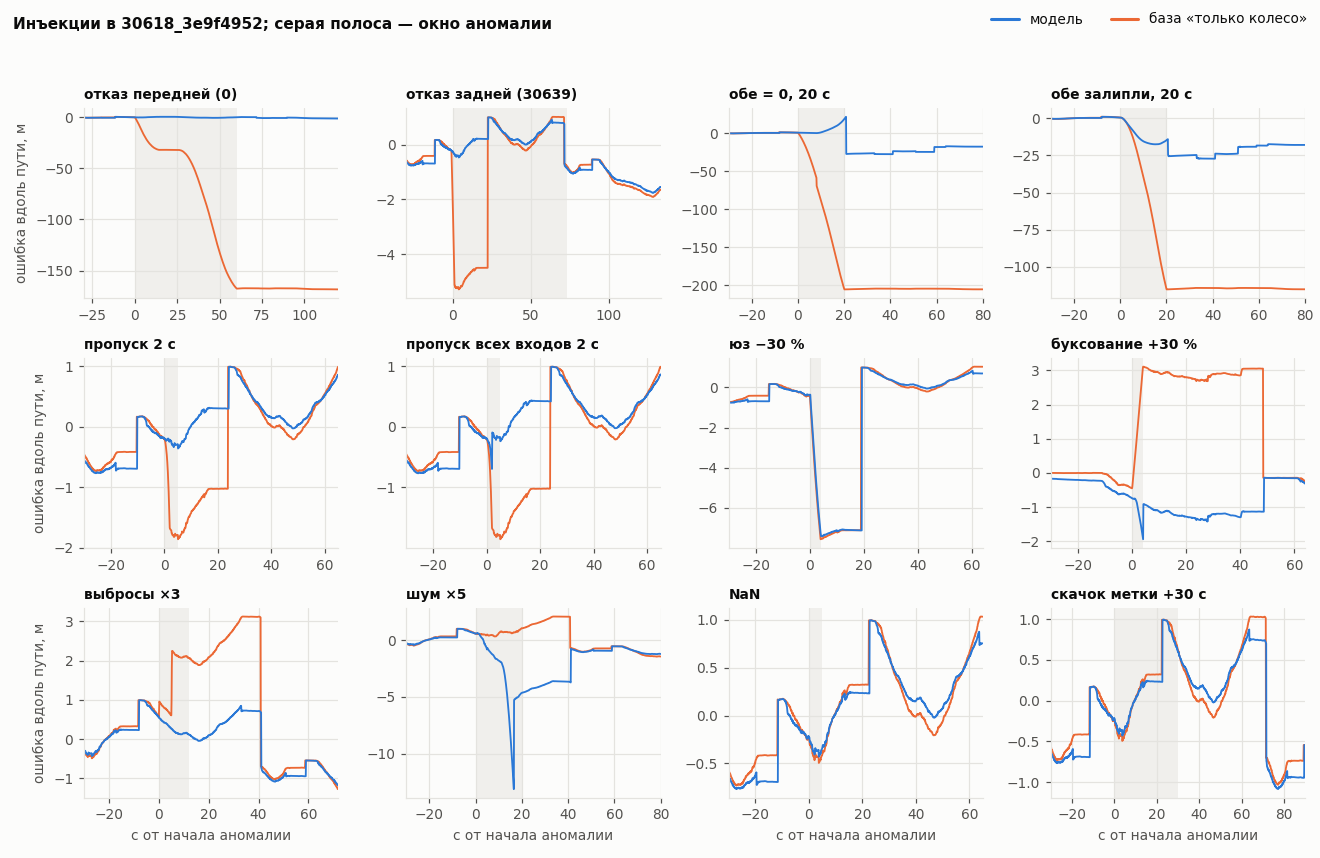
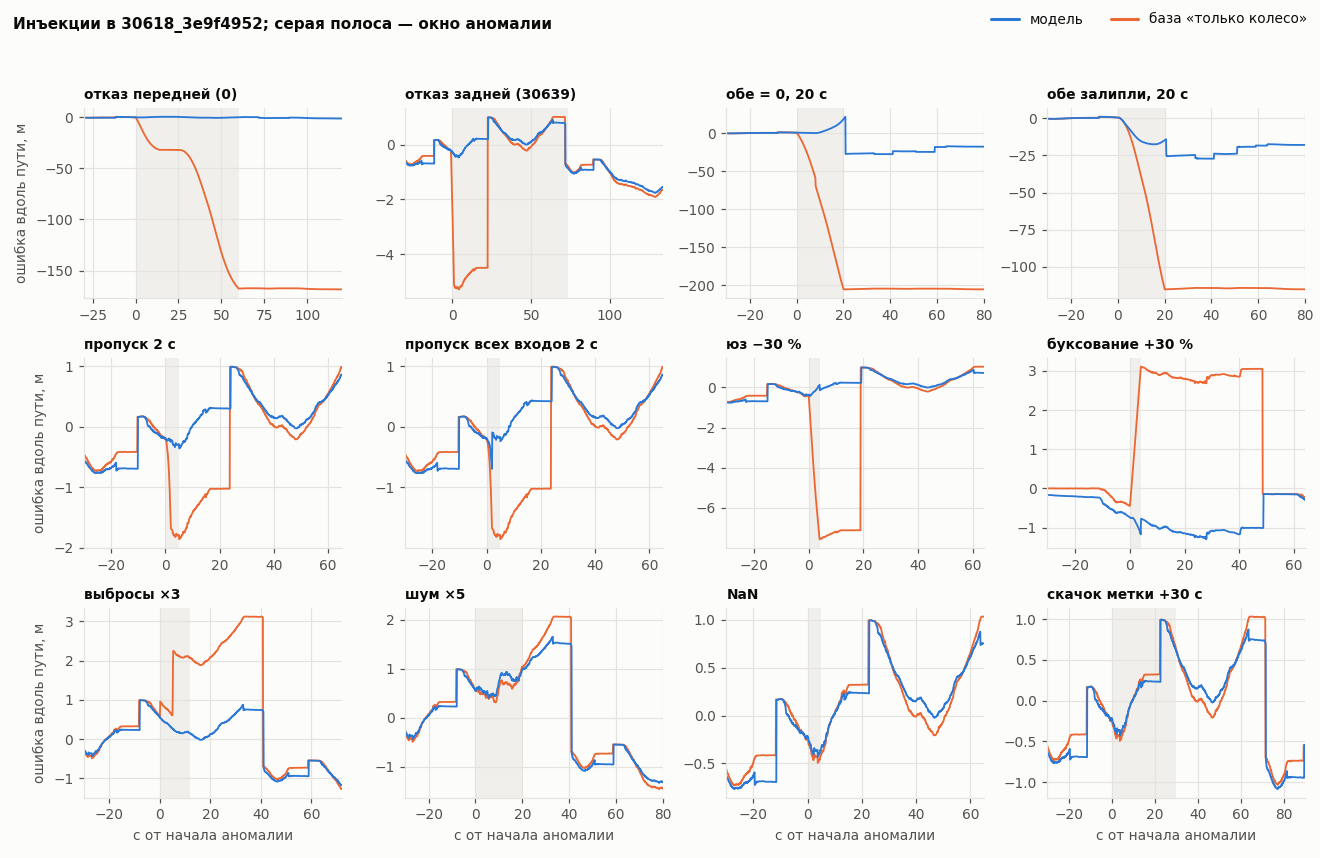
Документы: описание обработки срыва колёс, пересобран EVAL.md
- результаты до/после, подбор на обучающих записях, перенос в JS-порт
- EVAL.md пересобран tools/eval.py с --variants

diff --git a/docs/EVAL.md b/docs/EVAL.md
@@ -1,6 +1,6 @@
 # Оценка точности и устойчивости (tools/eval.py)
 
-> **Версия чисел: после слияний (integration).** Документ целиком сгенерирован `tools/eval.py` (не править руками). Код пакета: sha `0f87c0a568136e4f`. Лист: оценочный (ros2_ws/src/tram_state_estimator/config/eval/tram.yaml, только train) (sha `77db84496ad53a34`). Карта: оценочная карта пакета config/eval/track_map.npz (только train, meas_scale 1.001287) (sha `0478c0497ecee761`). GNSS в связку: первые 3 с. Прогонов: 15.
+> **Версия чисел: срыв обеих тележек и шум (wp2/slip).** Документ целиком сгенерирован `tools/eval.py` (не править руками). Код пакета: sha `f82531fffd2b8d98`. Лист: оценочный (ros2_ws/src/tram_state_estimator/config/eval/tram.yaml, только train) (sha `9268ab52be7d1f38`). Карта: оценочная карта пакета config/eval/track_map.npz (только train, meas_scale 1.001287) (sha `0478c0497ecee761`). GNSS в связку: первые 3 с. Прогонов: 15.
 
 ## Главное
 
@@ -9,50 +9,50 @@
 * **Полнота выхода** (модель): пар скорости 99,99 % меток GNSS vel (NaN в выходе: 0), пар положения 99,48 % меток GNSS fix (строк выхода без опубликованного положения: 2037, положение NaN: 0); падений связки: 0.
 * **Граница квадратов MGRS** (E = 400 км, запад в 37U CB): средняя 3D модели при сочетании «наш выход × соглашение судьи» — перенос × перенос 3,79 м, 37UDB × 37UDB 3,79 м, **перенос × 37UDB 21462 м, 37UDB × перенос 21462 м** (пар с ошибкой > 1 км: 36659 и 36659 из 170661). Несовпадение соглашений стоит ~100 км всей западной части пути; при совпадении добавляются только пары у самой границы, где оценка и эталон по разные стороны (перенос × перенос: 0; раздел 3.2).
 * **GNSS весь прогон:** выход совпал с режимом «GNSS 3 с» в 5 из 5 прогонов; 3D ср. 2,2 м против 2,2 м (первые 5 мин).
-* **Инъекции:** both_zero — флаг есть; модель лучше базы; остаток 44 м; both_stuck — флаг есть; модель лучше базы; остаток 41 м; skid_brake — не замечено: ошибка без флага; noise — флаг есть; модель хуже базы.
+* **Инъекции:** both_zero — флаг есть; модель лучше базы; остаток 38 м; both_stuck — флаг есть; модель лучше базы; остаток 41 м.
 
 ## 0. До и после
 
-«До» — `docs/data/eval_before/summary.json`: до правок, код пакета sha `5f634e9a5a63564d`, лист json (запасной: оценочного листа config/eval/ нет), карта оценочная: только обучающие прогоны (build_map.py train, ключ b16c47d5); **УТЕЧКА: таблица привода и масштаб подогнаны по всем 122 bag, включая отложенные; q_v, delay, tau подбирались на отложенных**. «После» — этот прогон (шапка документа). Прогоны те же.
+«До» — `out/eval_before15/summary.json`: до: main 1b5922c, код пакета sha `0f87c0a568136e4f`, лист оценочный (ros2_ws/src/tram_state_estimator/config/eval/tram.yaml, только train), карта оценочная карта пакета config/eval/track_map.npz (только train, meas_scale 1.001287). «После» — этот прогон (шапка документа). Прогоны те же.
 
 | метрика (15 holdout_scored) | модель до | модель после | база до | база после |
 |---|---|---|---|---|
-| скорость MAE, м/с | 0,0489 | 0,0362 | 0,0483 | 0,0462 |
-| скорость RMSE, м/с | 0,0997 | 0,0918 | 0,0967 | 0,0947 |
-| скорость смещение, м/с | +0,0130 | +0,0037 | +0,0066 | +0,0064 |
-| скорость макс \|ошибка\|, м/с | 9,468 | 9,488 | 9,436 | 9,435 |
-| ±2σ скорости | 75,6 % | 94,7 % | — | — |
-| — стоянка: MAE | 0,0166 | 0,0156 | 0,0148 | 0,0146 |
-| — стоянка: смещение | −0,0114 | −0,0127 | −0,0089 | −0,0090 |
-| — стоянка: ±2σ | 81,8 % | 95,8 % | — | — |
-| — тяга: MAE | 0,0567 | 0,0467 | 0,0576 | 0,0550 |
-| — тяга: смещение | −0,0022 | +0,0129 | −0,0225 | −0,0197 |
-| — тяга: ±2σ | 81,5 % | 93,7 % | — | — |
-| — выбег: MAE | 0,0466 | 0,0374 | 0,0397 | 0,0386 |
-| — выбег: смещение | +0,0318 | +0,0170 | +0,0179 | +0,0168 |
-| — выбег: ±2σ | 77,3 % | 93,5 % | — | — |
-| — торможение: MAE | 0,0720 | 0,0437 | 0,0726 | 0,0691 |
-| — торможение: смещение | +0,0478 | +0,0049 | +0,0508 | +0,0475 |
-| — торможение: ±2σ | 62,3 % | 95,1 % | — | — |
-| положение ср. 3D, м | 5,04 | 3,79 | 3,94 | 3,81 |
-| положение 3D RMSE, м | 11,51 | 9,20 | 9,68 | 9,34 |
-| положение 3D макс, м | 131,3 | 82,1 | 130,8 | 82,1 |
-| конец 3D ср., м | 21,1 | 12,2 | 18,0 | 12,0 |
-| конец 3D медиана, м | 1,80 | 2,39 | 1,69 | 1,69 |
-| конец 3D макс, м | 131,3 | 55,3 | 130,8 | 55,3 |
-| дрейф 3D по концу, % медиана | 0,060 | 0,045 | 0,031 | 0,031 |
-| дрейф 3D по концу, % ср. | 0,399 | 0,231 | 0,338 | 0,227 |
-| дрейф 3D по концу, % макс | 2,295 | 0,978 | 2,286 | 0,979 |
-| вдоль пути ср. \|ошибка\|, м | 4,19 | 2,91 | 2,93 | 2,92 |
-| вдоль пути RMSE, м | 10,92 | 8,72 | 8,48 | 8,88 |
-| вдоль пути макс, м | 129,1 | 141,7 | 66,5 | 141,7 |
-| поперёк ср., м | 0,56 | 0,52 | 0,55 | 0,52 |
-| поперёк макс, м | 59,9 | 43,3 | 59,8 | 43,2 |
-| \|вдоль\| ≤ 2σ_s | 60,1 % | 93,1 % | — | — |
-| пар в чужом 100-км квадрате (перенос) | 22 | 0 | 21 | 0 |
-| «взгляд судьи»: сырые x, y, z против MGRS, ср. 3D, м | 95819,2 | 3,8 | 95819,7 | 3,8 |
+| скорость MAE, м/с | 0,0362 | 0,0362 | 0,0462 | 0,0462 |
+| скорость RMSE, м/с | 0,0918 | 0,0917 | 0,0947 | 0,0947 |
+| скорость смещение, м/с | +0,0037 | +0,0037 | +0,0064 | +0,0064 |
+| скорость макс \|ошибка\|, м/с | 9,488 | 9,489 | 9,435 | 9,435 |
+| ±2σ скорости | 94,7 % | 94,7 % | — | — |
+| — стоянка: MAE | 0,0156 | 0,0156 | 0,0146 | 0,0146 |
+| — стоянка: смещение | −0,0127 | −0,0127 | −0,0090 | −0,0090 |
+| — стоянка: ±2σ | 95,8 % | 95,8 % | — | — |
+| — тяга: MAE | 0,0467 | 0,0467 | 0,0550 | 0,0550 |
+| — тяга: смещение | +0,0129 | +0,0129 | −0,0197 | −0,0197 |
+| — тяга: ±2σ | 93,7 % | 93,7 % | — | — |
+| — выбег: MAE | 0,0374 | 0,0374 | 0,0386 | 0,0386 |
+| — выбег: смещение | +0,0170 | +0,0171 | +0,0168 | +0,0168 |
+| — выбег: ±2σ | 93,5 % | 93,5 % | — | — |
+| — торможение: MAE | 0,0437 | 0,0436 | 0,0691 | 0,0691 |
+| — торможение: смещение | +0,0049 | +0,0049 | +0,0475 | +0,0475 |
+| — торможение: ±2σ | 95,1 % | 95,1 % | — | — |
+| положение ср. 3D, м | 3,79 | 3,79 | 3,81 | 3,81 |
+| положение 3D RMSE, м | 9,20 | 9,20 | 9,34 | 9,34 |
+| положение 3D макс, м | 82,1 | 82,1 | 82,1 | 82,1 |
+| конец 3D ср., м | 12,2 | 12,2 | 12,0 | 12,0 |
+| конец 3D медиана, м | 2,39 | 2,39 | 1,69 | 1,69 |
+| конец 3D макс, м | 55,3 | 55,3 | 55,3 | 55,3 |
+| дрейф 3D по концу, % медиана | 0,045 | 0,045 | 0,031 | 0,031 |
+| дрейф 3D по концу, % ср. | 0,231 | 0,231 | 0,227 | 0,227 |
+| дрейф 3D по концу, % макс | 0,978 | 0,978 | 0,979 | 0,979 |
+| вдоль пути ср. \|ошибка\|, м | 2,91 | 2,91 | 2,92 | 2,92 |
+| вдоль пути RMSE, м | 8,72 | 8,72 | 8,88 | 8,88 |
+| вдоль пути макс, м | 141,7 | 141,7 | 141,7 | 141,7 |
+| поперёк ср., м | 0,52 | 0,52 | 0,52 | 0,52 |
+| поперёк макс, м | 43,3 | 43,3 | 43,2 | 43,2 |
+| \|вдоль\| ≤ 2σ_s | 93,1 % | 93,1 % | — | — |
+| пар в чужом 100-км квадрате (перенос) | 0 | 0 | 0 | 0 |
+| «взгляд судьи»: сырые x, y, z против MGRS, ср. 3D, м | 3,8 | 3,8 | 3,8 | 3,8 |
 
-GNSS весь прогон (первые 5 мин): выход совпал с «GNSS 3 с» до — 0 из 5, после — 5 из 5.
+GNSS весь прогон (первые 5 мин): выход совпал с «GNSS 3 с» до — — из 0, после — 5 из 5.
 
 База «только колесо» — тот же Runner (выставка, карта, привязки) со средним свежих показаний тележек вместо ядра; «до» и «после» у неё различаются только кодом связки и картой.
 
@@ -92,8 +92,8 @@ docker run --rm --cpus 2 -v ${PWD}:/repo -v <каталог с bag>:/repo/data:r
 
 Результаты: `out/eval/summary.json` (итоги), `runs.json` (по прогонам), `inject.json` (инъекции), `timing.json` (время, sha256 JSON, git, строки реального времени; не детерминирован). Тесты инструментов: `python3 -m pytest tools/eval_selftest.py -q`.
 
-Этот прогон: 9,1 мин без графиков и документа (они ~0,5 мин), процессов 2, с --variants (время зависит от загрузки машины: 26.09 при соседних контейнерах, где наш получал ~1,3 ядра, тот же прогон без --variants шёл 18,0 мин вместо 6,4).
-sha256 JSON этого прогона: `summary.json` 58d294576771, `runs.json` dd33623b517e, `inject.json` b093e845d65f.
+Этот прогон: 11,1 мин без графиков и документа (они ~0,5 мин), процессов 4, с --variants (время зависит от загрузки машины: 26.09 при соседних контейнерах, где наш получал ~1,3 ядра, тот же прогон без --variants шёл 18,0 мин вместо 6,4).
+sha256 JSON этого прогона: `summary.json` 18b9b6e0b0a9, `runs.json` 1c295d3e457c, `inject.json` ce643c4004a9.
 Воспроизводимость: два полных прогона дают побайтно одинаковые `summary.json`, `runs.json`, `inject.json` (`--check-determinism` проверяет это сам); чистый `git clone` с пустым кэшем строит кэш и карту из `data/` и даёт тот же sha256 `runs.json` (проверено 25.09 на коде до правок). Карта напарника `analysis/cache/track_map_train.npz` (собрана на Windows) отличается от пересобранной множителем пути в 16-м знаке, поэтому не используется.
 
 ## 2. Методика
@@ -117,7 +117,7 @@ sha256 JSON этого прогона: `summary.json` 58d294576771, `runs.json` 
 
 | оценка | RMSE, м/с | MAE, м/с | смещение, м/с | макс, м/с | ±2σ | ложные стоянки | пар | доля пар | NaN в выходе |
 |---|---|---|---|---|---|---|---|---|---|
-| модель | 0,0918 | 0,0362 | +0,0037 | 9,49 | 94,7 % | 0,021 % | 167303 | 99,99 % | 0 |
+| модель | 0,0917 | 0,0362 | +0,0037 | 9,49 | 94,7 % | 0,021 % | 167303 | 99,99 % | 0 |
 | база «только колесо» | 0,0947 | 0,0462 | +0,0064 | 9,44 | — | 0,036 % | 167303 | 99,99 % | 0 |
 
 Доля пар — от меток GNSS master vel; непарные — метки без выхода в пределах 0,05 с (до первого выхода, пропуски, падение). Падения связки на чистых прогонах: нет.
@@ -126,7 +126,7 @@ sha256 JSON этого прогона: `summary.json` 58d294576771, `runs.json` 
 
 | оценка | RMSE, м/с | MAE, м/с | смещение, м/с |
 |---|---|---|---|
-| модель | 0,2706 | 0,0412 | −0,0002 |
+| модель | 0,2706 | 0,0411 | −0,0002 |
 | база | 0,2725 | 0,0509 | +0,0024 |
 
 По фазам (пулом всех пар master):
@@ -135,10 +135,10 @@ sha256 JSON этого прогона: `summary.json` 58d294576771, `runs.json` 
 |---|---|---|---|---|---|---|
 | стоянка | 28 % | 0,0156 | −0,0127 | 95,8 % | 0,0146 | −0,0090 |
 | тяга | 33 % | 0,0467 | +0,0129 | 93,7 % | 0,0550 | −0,0197 |
-| выбег | 9 % | 0,0374 | +0,0170 | 93,5 % | 0,0386 | +0,0168 |
-| торможение | 29 % | 0,0437 | +0,0049 | 95,1 % | 0,0691 | +0,0475 |
+| выбег | 9 % | 0,0374 | +0,0171 | 93,5 % | 0,0386 | +0,0168 |
+| торможение | 29 % | 0,0436 | +0,0049 | 95,1 % | 0,0691 | +0,0475 |
 
-Без выбросов самого эталона (GNSS против обеих согласных тележек > 1 м/с, 169 пар): модель MAE 0,0350, RMSE 0,0762; база MAE 0,0451, RMSE 0,0803.
+Без выбросов самого эталона (GNSS против обеих согласных тележек > 1 м/с, 169 пар): модель MAE 0,0349, RMSE 0,0761; база MAE 0,0451, RMSE 0,0803.
 
 ![Ошибка скорости](img/eval_speed_error.png)
 
@@ -194,12 +194,12 @@ sha256 JSON этого прогона: `summary.json` 58d294576771, `runs.json` 
 
 | прогон | путь, км | пар v | MAE | MAE база | смещение | ±2σ | 3D ср. | 3D база | 3D конец | вдоль конец | дрейф 3D, % | квадрат ≠ | падение |
 |---|---|---|---|---|---|---|---|---|---|---|---|---|---|
-| 30618_0652866c | 5,72 | 14320 | 0,0266 | 0,0367 | −0,0069 | 97 % | 3,19 | 3,12 | 41,98 | +37,6 | 0,734 | 0 |  |
+| 30618_0652866c | 5,72 | 14320 | 0,0266 | 0,0367 | −0,0070 | 97 % | 3,19 | 3,12 | 41,98 | +37,6 | 0,734 | 0 |  |
 | 30618_21dd3af3 | 5,43 | 10544 | 0,0277 | 0,0342 | −0,0071 | 95 % | 1,85 | 2,13 | 0,36 | −0,3 | 0,007 | 0 |  |
-| 30618_28538acf | 5,63 | 12616 | 0,0455 | 0,0578 | −0,0093 | 95 % | 3,28 | 3,25 | 2,39 | −2,4 | 0,042 | 0 |  |
-| 30618_3e9f4952 | 5,52 | 12948 | 0,0209 | 0,0317 | −0,0035 | 98 % | 1,14 | 1,21 | 0,44 | −0,4 | 0,008 | 0 |  |
+| 30618_28538acf | 5,63 | 12616 | 0,0452 | 0,0578 | −0,0092 | 95 % | 3,28 | 3,25 | 2,39 | −2,4 | 0,042 | 0 |  |
+| 30618_3e9f4952 | 5,52 | 12948 | 0,0209 | 0,0317 | −0,0035 | 98 % | 1,14 | 1,21 | 0,45 | −0,4 | 0,008 | 0 |  |
 | 30618_49fe4c54 | 5,69 | 13406 | 0,0288 | 0,0401 | −0,0052 | 96 % | 2,69 | 2,62 | 55,26 | −46,7 | 0,971 | 0 |  |
-| 30618_616ec56b | 5,69 | 11909 | 0,0236 | 0,0369 | −0,0040 | 98 % | 3,07 | 2,99 | 1,71 | −1,7 | 0,030 | 0 |  |
+| 30618_616ec56b | 5,69 | 11909 | 0,0236 | 0,0369 | −0,0040 | 98 % | 3,07 | 2,99 | 1,72 | −1,7 | 0,030 | 0 |  |
 | 30618_8158f0b0 | 5,52 | 11634 | 0,0233 | 0,0358 | −0,0044 | 98 % | 1,93 | 1,95 | 54,03 | −44,6 | 0,978 | 0 |  |
 | 30618_98161270 | 0,00 | 362 | 0,0035 | 0,0035 | −0,0035 | 100 % | 0,04 | 0,02 | 0,07 | — | — | 0 |  |
 | 30618_a53d5f6f | 5,53 | 11810 | 0,0234 | 0,0338 | −0,0043 | 97 % | 0,88 | 0,79 | 0,72 | −0,7 | 0,013 | 0 |  |
@@ -207,7 +207,7 @@ sha256 JSON этого прогона: `summary.json` 58d294576771, `runs.json` 
 | 30618_d4ba7005 | 5,35 | 11568 | 0,0208 | 0,0329 | −0,0030 | 98 % | 0,64 | 0,76 | 2,58 | −2,6 | 0,048 | 0 |  |
 | 30618_e9a34502 | 5,39 | 11901 | 0,0200 | 0,0286 | −0,0037 | 98 % | 0,77 | 0,85 | 1,69 | −1,7 | 0,031 | 0 |  |
 | 30639_3b3d9eb8 | 5,47 | 12149 | 0,1230 | 0,1270 | +0,0421 | 74 % | 7,75 | 7,60 | 6,73 | −4,6 | 0,123 | 0 |  |
-| 30639_92226df0 | 5,54 | 10723 | 0,0578 | 0,0627 | +0,0425 | 86 % | 4,11 | 3,97 | 1,44 | −1,3 | 0,026 | 0 |  |
+| 30639_92226df0 | 5,54 | 10723 | 0,0578 | 0,0627 | +0,0426 | 86 % | 4,11 | 3,97 | 1,44 | −1,3 | 0,026 | 0 |  |
 | 30639_d3c43d69 | 6,85 | 10782 | 0,0418 | 0,0544 | +0,0230 | 96 % | 21,75 | 22,15 | 8,97 | +6,0 | 0,131 | 0 |  |
 
 ## 4. Заглушки крипа против подогнанных / нулевых
@@ -215,7 +215,7 @@ sha256 JSON этого прогона: `summary.json` 58d294576771, `runs.json` 
 | вариант | поля | MAE, м/с | смещение | ±2σ | 3D ср., м |
 |---|---|---|---|---|---|
 | лист как есть | c_creep 0,0000, c_creep_drag 0,0000 | 0,0362 | +0,0037 | 94,7 % | 3,79 |
-| stubs | c_creep=0.02,c_creep_drag=0.002 | 0,0404 | +0,0125 | 93,5 % | 3,93 |
+| stubs | c_creep=0.02,c_creep_drag=0.002 | 0,0403 | +0,0125 | 93,5 % | 3,93 |
 | zero | c_creep=0,c_creep_drag=0 | = лист |  |  |  |
 
 ## 5. GNSS весь прогон (bag жюри с полным GNSS)
@@ -262,14 +262,14 @@ sha256 JSON этого прогона: `summary.json` 58d294576771, `runs.json` 
 |---|---|---|---|---|---|---|---|---|
 | front_zero | 3 | 0,028 | 2,379 | 1,5 | 179,7 | 100 % / 0 % / 0 % | 98 % | модель лучше базы |
 | rear_drop | 3 | 0,026 | 0,079 | 0,3 | 0,3 | 100 % / 0 % / 0 % | 97 % | модель лучше базы |
-| both_zero | 3 | 1,001 | 9,328 | 43,9 | 205,8 | 0 % / 100 % / 34 % | 100 % | флаг есть; модель лучше базы; остаток 44 м |
+| both_zero | 3 | 1,001 | 9,328 | 37,8 | 205,8 | 0 % / 100 % / 15 % | 100 % | флаг есть; модель лучше базы; остаток 38 м |
 | both_stuck | 3 | 1,124 | 5,357 | 41,2 | 115,2 | 11 % / 0 % / 0 % | 83 % | флаг есть; модель лучше базы; остаток 41 м |
 | dropout | 3 | 0,069 | 0,361 | 0,1 | 0,1 | 78 % / 0 % / 0 % | 100 % | флаг есть; модель лучше базы |
 | gap_all | 3 | 0,121 | 0,361 | 0,1 | 0,1 | 78 % / 0 % / 0 % | 100 % | флаг есть; модель лучше базы |
-| skid_brake | 3 | 1,756 | 1,772 | 0,0 | 0,0 | 100 % / 0 % / 0 % | 5 % | не замечено: ошибка без флага |
-| spin_traction | 3 | 0,635 | 0,861 | 0,3 | 0,2 | 25 % / 0 % / 98 % | 42 % | флаг есть |
-| outliers | 3 | 0,031 | 0,213 | 0,0 | 0,2 | 100 % / 0 % / 9 % | 100 % | флаг есть; модель лучше базы |
-| noise | 3 | 0,587 | 0,146 | 2,1 | 0,2 | 80 % / 0 % / 74 % | 42 % | флаг есть; модель хуже базы |
+| skid_brake | 3 | 0,182 | 1,772 | 0,1 | 0,0 | 24 % / 0 % / 99 % | 100 % | флаг есть; модель лучше базы |
+| spin_traction | 3 | 0,211 | 0,861 | 0,3 | 0,2 | 24 % / 0 % / 99 % | 99 % | флаг есть; модель лучше базы |
+| outliers | 3 | 0,034 | 0,213 | 0,1 | 0,2 | 100 % / 0 % / 2 % | 100 % | модель лучше базы |
+| noise | 3 | 0,100 | 0,146 | 0,4 | 0,2 | 100 % / 0 % / 2 % | 94 % | в пределах нормы |
 | nan | 3 | 0,031 | 0,034 | 0,1 | 0,0 | 100 % / 0 % / 0 % | 100 % | в пределах нормы |
 | stamp_jump | 3 | 0,025 | 0,038 | 0,1 | 0,1 | 100 % / 0 % / 0 % | 96 % | в пределах нормы |
 
@@ -281,7 +281,7 @@ sha256 JSON этого прогона: `summary.json` 58d294576771, `runs.json` 
 |  | база | 0,031 | 2,781 | 0,027 | −167,4 (+0,7) | −168,4 | −179,7 | 0,1 |  |  |
 | rear_drop · 3e9f4952 | модель | 0,032 | 0,024 | 0,018 | −0,9 (−0,9) | −1,5 | −0,1 | 0,0 | valid 100 %, amb 0 %, slip 0 %, σv≤0,2 | 97 % |
 |  | база | 0,100 | 0,070 | 0,025 | −0,8 (−0,8) | −1,6 | −0,0 | 0,0 |  |  |
-| both_zero · 3e9f4952 | модель | 0,024 | 0,943 | 0,082 | +18,0 (+0,1) | −17,8 | −13,5 | 0,9 | valid 0 %, amb 100 %, slip 17 %, σv≤9,6 | 100 % |
+| both_zero · 3e9f4952 | модель | 0,024 | 0,943 | 0,082 | +18,0 (+0,1) | −17,9 | −13,5 | 0,9 | valid 0 %, amb 100 %, slip 15 %, σv≤9,6 | 100 % |
 |  | база | 0,033 | 9,764 | 0,047 | −204,2 (−0,0) | −205,7 | −205,8 | 0,1 |  |  |
 | both_stuck · 3e9f4952 | модель | 0,024 | 0,995 | 0,033 | −14,9 (+0,1) | −17,9 | −11,3 | 0,7 | valid 12 %, amb 0 %, slip 0 %, σv≤9,3 | 84 % |
 |  | база | 0,033 | 5,734 | 0,040 | −114,2 (−0,0) | −115,1 | −115,2 | 0,1 |  |  |
@@ -289,13 +289,13 @@ sha256 JSON этого прогона: `summary.json` 58d294576771, `runs.json` 
 |  | база | 0,032 | 0,317 | 0,035 | −1,8 (−0,4) | +1,0 | +0,0 | 0,1 |  |  |
 | gap_all · 3e9f4952 | модель | 0,031 | 0,110 | 0,022 | −0,2 (−0,4) | +0,9 | −0,0 | 0,1 | valid 78 %, amb 0 %, slip 0 %, σv≤1,5 | 100 % |
 |  | база | 0,032 | 0,317 | 0,035 | −1,8 (−0,4) | +1,0 | +0,0 | 0,1 |  |  |
-| skid_brake · 3e9f4952 | модель | 0,032 | 1,742 | 0,026 | −7,1 (−0,2) | +0,7 | +0,0 | 0,2 | valid 100 %, amb 0 %, slip 0 %, σv≤0,1 | 6 % |
+| skid_brake · 3e9f4952 | модель | 0,032 | 0,091 | 0,022 | +0,1 (−0,2) | +0,7 | +0,0 | 0,1 | valid 25 %, amb 0 %, slip 98 %, σv≤0,7 | 100 % |
 |  | база | 0,031 | 1,767 | 0,035 | −7,4 (−0,2) | +1,0 | +0,0 | 0,1 |  |  |
-| spin_traction · 3e9f4952 | модель | 0,018 | 0,285 | 0,032 | −1,8 (−0,8) | −0,3 | −0,0 | 0,2 | valid 25 %, amb 0 %, slip 98 %, σv≤0,8 | 98 % |
+| spin_traction · 3e9f4952 | модель | 0,018 | 0,108 | 0,031 | −1,2 (−0,8) | −0,3 | +0,0 | 0,1 | valid 25 %, amb 0 %, slip 98 %, σv≤0,7 | 98 % |
 |  | база | 0,014 | 0,872 | 0,030 | +3,0 (−0,5) | −0,3 | −0,0 | 0,1 |  |  |
-| outliers · 3e9f4952 | модель | 0,024 | 0,022 | 0,018 | +0,1 (+0,1) | −1,2 | +0,0 | 0,0 | valid 100 %, amb 0 %, slip 6 %, σv≤0,2 | 100 % |
+| outliers · 3e9f4952 | модель | 0,024 | 0,024 | 0,018 | +0,1 (+0,1) | −1,2 | −0,0 | 0,0 | valid 100 %, amb 0 %, slip 2 %, σv≤0,2 | 100 % |
 |  | база | 0,033 | 0,201 | 0,030 | +2,1 (−0,0) | −1,3 | −0,2 | 0,0 |  |  |
-| noise · 3e9f4952 | модель | 0,024 | 0,730 | 0,021 | −4,6 (+0,1) | −1,2 | +1,6 | 0,7 | valid 80 %, amb 0 %, slip 70 %, σv≤1,8 | 33 % |
+| noise · 3e9f4952 | модель | 0,024 | 0,104 | 0,020 | +1,0 (+0,1) | −1,3 | −0,4 | 0,0 | valid 100 %, amb 0 %, slip 0 %, σv≤0,3 | 94 % |
 |  | база | 0,033 | 0,155 | 0,029 | +1,0 (−0,0) | −1,4 | −0,2 | 0,1 |  |  |
 | nan · 3e9f4952 | модель | 0,032 | 0,026 | 0,022 | −0,3 (−0,3) | +0,8 | +0,0 | 0,0 | valid 100 %, amb 0 %, slip 0 %, σv≤0,1 | 100 % |
 |  | база | 0,031 | 0,031 | 0,035 | −0,4 (−0,4) | +1,0 | +0,0 | 0,0 |  |  |
@@ -305,7 +305,7 @@ sha256 JSON этого прогона: `summary.json` 58d294576771, `runs.json` 
 |  | база | 0,033 | 2,661 | 0,046 | −159,9 (+2,3) | −156,8 | −157,6 | 0,0 |  |  |
 | rear_drop · d3c43d69 | модель | 0,031 | 0,040 | 0,035 | −0,2 (−0,2) | +5,8 | −0,3 | 0,0 | valid 100 %, amb 0 %, slip 0 %, σv≤0,2 | 96 % |
 |  | база | 0,100 | 0,098 | 0,050 | −0,2 (−0,2) | +6,5 | −0,3 | 0,0 |  |  |
-| both_zero · d3c43d69 | модель | 0,040 | 0,927 | 0,102 | +17,3 (+0,9) | −23,1 | −14,9 | 3,7 | valid 1 %, amb 99 %, slip 21 %, σv≤9,4 | 100 % |
+| both_zero · d3c43d69 | модель | 0,040 | 0,927 | 0,102 | +17,3 (+0,9) | −23,1 | −14,9 | 3,7 | valid 1 %, amb 99 %, slip 12 %, σv≤9,4 | 100 % |
 |  | база | 0,057 | 9,443 | 0,065 | −201,5 (+0,8) | −196,4 | −194,6 | 0,1 |  |  |
 | both_stuck · d3c43d69 | модель | 0,040 | 1,115 | 0,049 | −17,6 (+0,9) | −23,8 | −5,7 | 0,7 | valid 12 %, amb 0 %, slip 0 %, σv≤9,5 | 82 % |
 |  | база | 0,057 | 5,523 | 0,059 | −110,2 (+0,8) | −107,4 | −106,9 | 0,1 |  |  |
@@ -313,13 +313,13 @@ sha256 JSON этого прогона: `summary.json` 58d294576771, `runs.json` 
 |  | база | 0,033 | 0,407 | 0,070 | −4,2 (−2,4) | +2,4 | −0,1 | 0,1 |  |  |
 | gap_all · d3c43d69 | модель | 0,031 | 0,172 | 0,042 | −2,3 (−2,3) | +2,2 | −0,1 | 0,1 | valid 78 %, amb 0 %, slip 0 %, σv≤1,5 | 100 % |
 |  | база | 0,033 | 0,407 | 0,070 | −4,2 (−2,4) | +2,4 | −0,1 | 0,1 |  |  |
-| skid_brake · d3c43d69 | модель | 0,033 | 1,769 | 0,046 | −9,4 (−2,3) | +2,2 | −0,0 | 0,3 | valid 100 %, amb 0 %, slip 0 %, σv≤0,1 | 5 % |
+| skid_brake · d3c43d69 | модель | 0,033 | 0,178 | 0,040 | −1,7 (−2,3) | +2,3 | +0,1 | 0,1 | valid 24 %, amb 0 %, slip 99 %, σv≤0,8 | 100 % |
 |  | база | 0,031 | 1,784 | 0,067 | −9,7 (−2,3) | +2,5 | +0,0 | 0,1 |  |  |
-| spin_traction · d3c43d69 | модель | 0,029 | 0,897 | 0,048 | +1,2 (−3,1) | +2,2 | −0,3 | 0,4 | valid 100 %, amb 0 %, slip 26 %, σv≤0,4 | 15 % |
+| spin_traction · d3c43d69 | модель | 0,029 | 0,195 | 0,045 | −2,4 (−3,1) | +2,2 | −0,3 | 0,1 | valid 24 %, amb 0 %, slip 99 %, σv≤0,8 | 100 % |
 |  | база | 0,032 | 0,946 | 0,074 | +1,5 (−3,1) | +2,3 | −0,2 | 0,1 |  |  |
-| outliers · d3c43d69 | модель | 0,040 | 0,051 | 0,034 | −0,1 (−0,0) | −0,4 | −0,0 | 0,0 | valid 100 %, amb 0 %, slip 9 %, σv≤0,2 | 99 % |
+| outliers · d3c43d69 | модель | 0,040 | 0,059 | 0,034 | −0,0 (−0,0) | −0,4 | −0,1 | 0,0 | valid 100 %, amb 0 %, slip 2 %, σv≤0,2 | 99 % |
 |  | база | 0,057 | 0,228 | 0,057 | +1,9 (−0,2) | −0,2 | −0,1 | 0,0 |  |  |
-| noise · d3c43d69 | модель | 0,040 | 0,835 | 0,038 | −5,0 (+0,9) | +0,6 | +2,1 | 0,1 | valid 82 %, amb 0 %, slip 74 %, σv≤1,7 | 41 % |
+| noise · d3c43d69 | модель | 0,040 | 0,109 | 0,029 | +0,4 (+0,9) | +0,3 | +0,2 | 0,3 | valid 100 %, amb 0 %, slip 2 %, σv≤0,3 | 94 % |
 |  | база | 0,057 | 0,136 | 0,050 | +0,8 (+0,8) | +0,5 | −0,0 | 0,1 |  |  |
 | nan · d3c43d69 | модель | 0,031 | 0,054 | 0,041 | −2,3 (−2,3) | +2,2 | −0,1 | 0,0 | valid 100 %, amb 0 %, slip 0 %, σv≤0,1 | 100 % |
 |  | база | 0,033 | 0,049 | 0,069 | −2,4 (−2,4) | +2,5 | −0,0 | 0,0 |  |  |
@@ -329,7 +329,7 @@ sha256 JSON этого прогона: `summary.json` 58d294576771, `runs.json` 
 |  | база | 0,038 | 1,693 | 0,038 | −102,7 (−1,3) | −103,2 | −91,2 | 0,1 |  |  |
 | rear_drop · e9a34502 | модель | 0,036 | 0,016 | 0,016 | −0,4 (−0,4) | −1,2 | +0,0 | 0,0 | valid 100 %, amb 0 %, slip 0 %, σv≤0,2 | 99 % |
 |  | база | 0,107 | 0,068 | 0,023 | −0,4 (−0,3) | −1,3 | −0,0 | 0,0 |  |  |
-| both_zero · e9a34502 | модель | 0,010 | 1,134 | 0,106 | +19,1 (−0,8) | −43,8 | −43,9 | 1,0 | valid 0 %, amb 100 %, slip 34 %, σv≤9,1 | 100 % |
+| both_zero · e9a34502 | модель | 0,010 | 1,134 | 0,106 | +19,1 (−0,8) | −36,0 | −37,8 | 1,0 | valid 0 %, amb 100 %, slip 13 %, σv≤9,2 | 100 % |
 |  | база | 0,013 | 8,776 | 0,036 | −175,9 (−0,8) | −177,1 | −177,6 | 0,1 |  |  |
 | both_stuck · e9a34502 | модель | 0,010 | 1,263 | 0,040 | −19,4 (−0,8) | −38,9 | −41,2 | 0,7 | valid 11 %, amb 0 %, slip 0 %, σv≤9,6 | 82 % |
 |  | база | 0,013 | 4,815 | 0,030 | −97,0 (−0,8) | −97,8 | −91,6 | 0,1 |  |  |
@@ -337,13 +337,13 @@ sha256 JSON этого прогона: `summary.json` 58d294576771, `runs.json` 
 |  | база | 0,037 | 0,358 | 0,028 | −2,9 (−1,3) | −0,9 | +0,0 | 0,1 |  |  |
 | gap_all · e9a34502 | модель | 0,035 | 0,081 | 0,014 | −1,5 (−1,5) | −0,9 | +0,0 | 0,1 | valid 78 %, amb 0 %, slip 0 %, σv≤1,0 | 100 % |
 |  | база | 0,037 | 0,358 | 0,028 | −2,9 (−1,3) | −0,9 | +0,0 | 0,1 |  |  |
-| skid_brake · e9a34502 | модель | 0,031 | 1,757 | 0,019 | −8,2 (−1,3) | −9,1 | −0,0 | 0,2 | valid 100 %, amb 0 %, slip 0 %, σv≤0,1 | 5 % |
+| skid_brake · e9a34502 | модель | 0,031 | 0,278 | 0,016 | −2,4 (−1,3) | −0,7 | −0,0 | 0,1 | valid 25 %, amb 0 %, slip 98 %, σv≤0,7 | 100 % |
 |  | база | 0,034 | 1,766 | 0,030 | −8,2 (−1,0) | −0,7 | −0,0 | 0,1 |  |  |
-| spin_traction · e9a34502 | модель | 0,035 | 0,723 | 0,019 | +2,0 (−1,0) | −1,0 | +0,0 | 0,2 | valid 100 %, amb 0 %, slip 12 %, σv≤0,4 | 13 % |
+| spin_traction · e9a34502 | модель | 0,035 | 0,329 | 0,017 | +0,3 (−1,0) | −1,0 | +0,0 | 0,1 | valid 25 %, amb 0 %, slip 98 %, σv≤0,8 | 100 % |
 |  | база | 0,042 | 0,765 | 0,027 | +2,4 (−0,8) | −1,2 | +0,0 | 0,1 |  |  |
-| outliers · e9a34502 | модель | 0,010 | 0,020 | 0,014 | −1,1 (−1,1) | −0,8 | +0,0 | 0,0 | valid 100 %, amb 0 %, slip 6 %, σv≤0,2 | 100 % |
+| outliers · e9a34502 | модель | 0,010 | 0,021 | 0,014 | −1,1 (−1,1) | −0,8 | +0,0 | 0,0 | valid 100 %, amb 0 %, slip 2 %, σv≤0,2 | 100 % |
 |  | база | 0,013 | 0,211 | 0,029 | +0,8 (−1,3) | −1,0 | −0,2 | 0,0 |  |  |
-| noise · e9a34502 | модель | 0,010 | 0,197 | 0,023 | −2,0 (−0,8) | −1,0 | +0,1 | 8,2 | valid 100 %, amb 0 %, slip 40 %, σv≤0,4 | 54 % |
+| noise · e9a34502 | модель | 0,010 | 0,086 | 0,016 | −0,9 (−0,8) | −1,0 | +0,0 | 0,0 | valid 100 %, amb 0 %, slip 1 %, σv≤0,2 | 93 % |
 |  | база | 0,013 | 0,148 | 0,026 | −1,0 (−0,8) | −1,1 | +0,0 | 0,1 |  |  |
 | nan · e9a34502 | модель | 0,036 | 0,014 | 0,015 | −1,5 (−1,5) | −0,9 | +0,0 | 0,0 | valid 100 %, amb 0 %, slip 0 %, σv≤0,1 | 100 % |
 |  | база | 0,038 | 0,022 | 0,028 | −1,3 (−1,3) | −0,9 | +0,0 | 0,0 |  |  |
@@ -356,18 +356,13 @@ sha256 JSON этого прогона: `summary.json` 58d294576771, `runs.json` 
 
 ## 7. Реальное время
 
-Сводки `tools/ros_probe.py` (найдены по `--probe-glob`): частота по меткам, задержка in2out — от приёма входа `/vehicle/*` до приёма первого выхода, который его учёл (стенные часы пробы, включая DDS), CPU — % одного ядра, RSS — МБ.
+**Заглушка.** Сводок `tools/ros_probe.py` не найдено (`--probe-glob out/realtime/**/summary.json,out/ros_e2e/*/summary.json`). Замер делает поток infra (`tools/measure_realtime.sh`, WP8): полный bag ≥ 20 мин, `--cpus 2 --memory 512m`, машина без соседей. После замера перезапустить `tools/eval.py` — таблица подставится сюда.
 
-| замер | выходов | Гц | in2out p50, мс | p99 | макс | CPU ср., % | CPU макс | RSS, МБ | рост RSS, МБ/мин |
-|---|---|---|---|---|---|---|---|---|---|
-| int_e9a34502_x1 (20 мин, --cpus 2 --memory 512m) | 24117 | 20,0 | 51,0 | 54,1 | 244,4 | 11,5 | 20,0 | 70 | 0,00 |
-| int_a_fullgnss (af7496f0, GNSS весь bag) | 5369 | 20,0 | 50,8 | 123,8 | 766,3 | 10,6 | 34,0 | 71 | 0,00 |
-
-Офлайн-скорость связки в этом прогоне (не замер ноды): 1768 входных сообщений в секунду на процесс вместе с базой — предварительно, при соседних контейнерах.
+Офлайн-скорость связки в этом прогоне (не замер ноды): 730 входных сообщений в секунду на процесс вместе с базой — предварительно, при соседних контейнерах.
 
 ## 8. Сверка с аудитом (critic_offline.py sub15)
 
-**Настройка отличается от аудита** (код пакета другой: sha `0f87c0a568136e4f` против `5f634e9a5a63564d` у аудита; лист, карта или набор прогонов) — расхождение ожидаемо, таблица для справки.
+**Настройка отличается от аудита** (код пакета другой: sha `f82531fffd2b8d98` против `5f634e9a5a63564d` у аудита; лист, карта или набор прогонов) — расхождение ожидаемо, таблица для справки.
 
 | метрика | sub15 (аудит 25.09, json_train) | этот прогон |
 |---|---|---|
